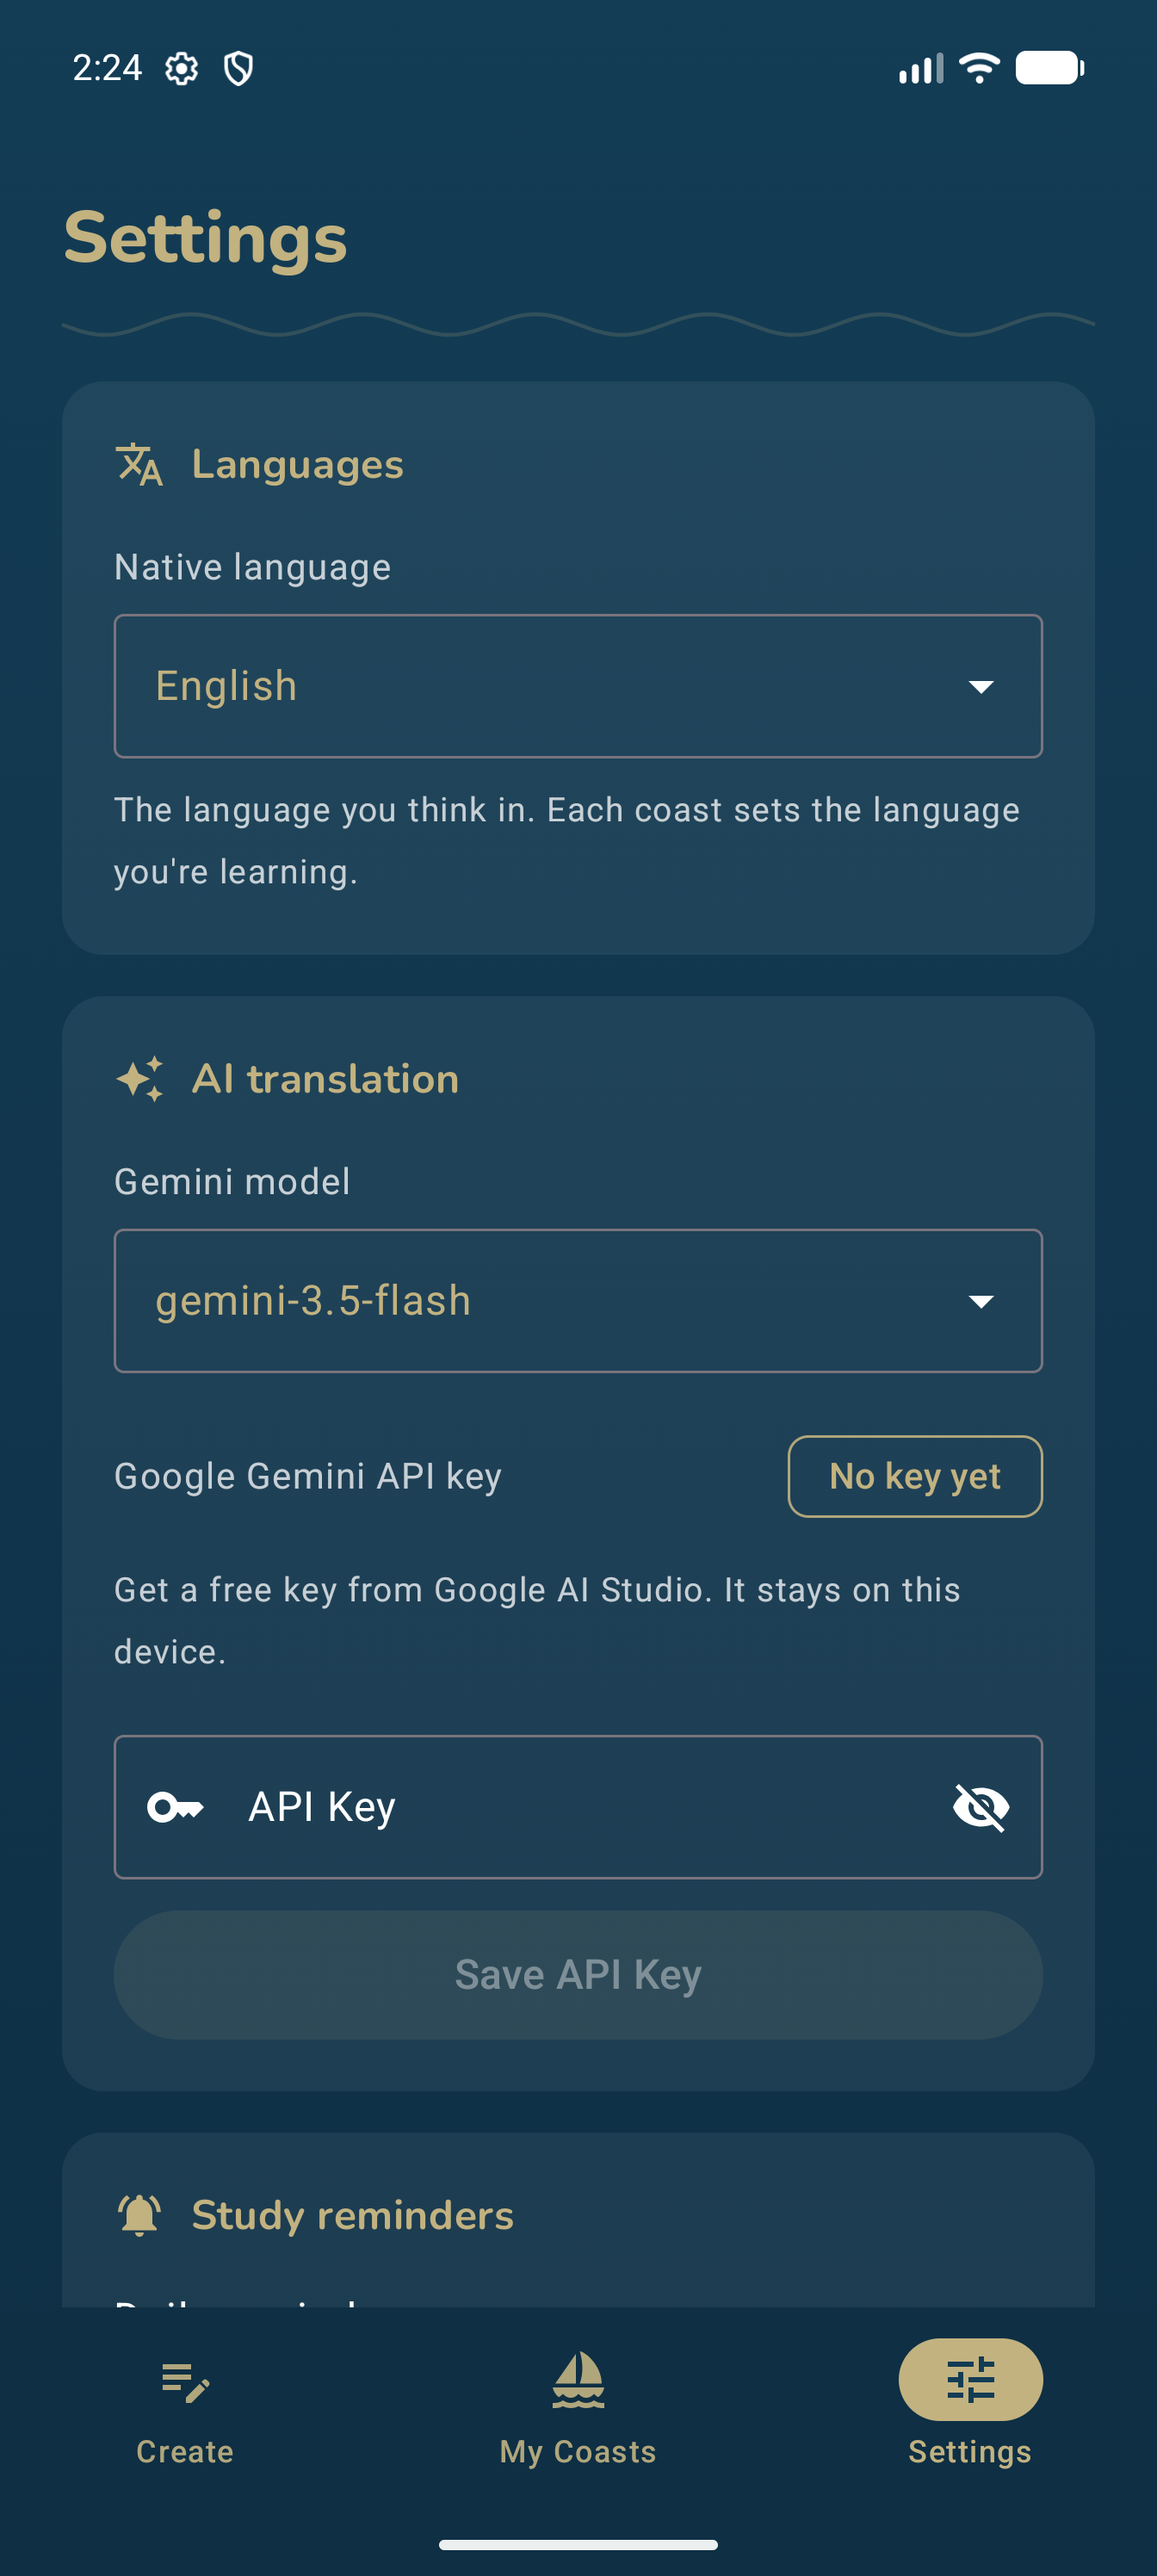
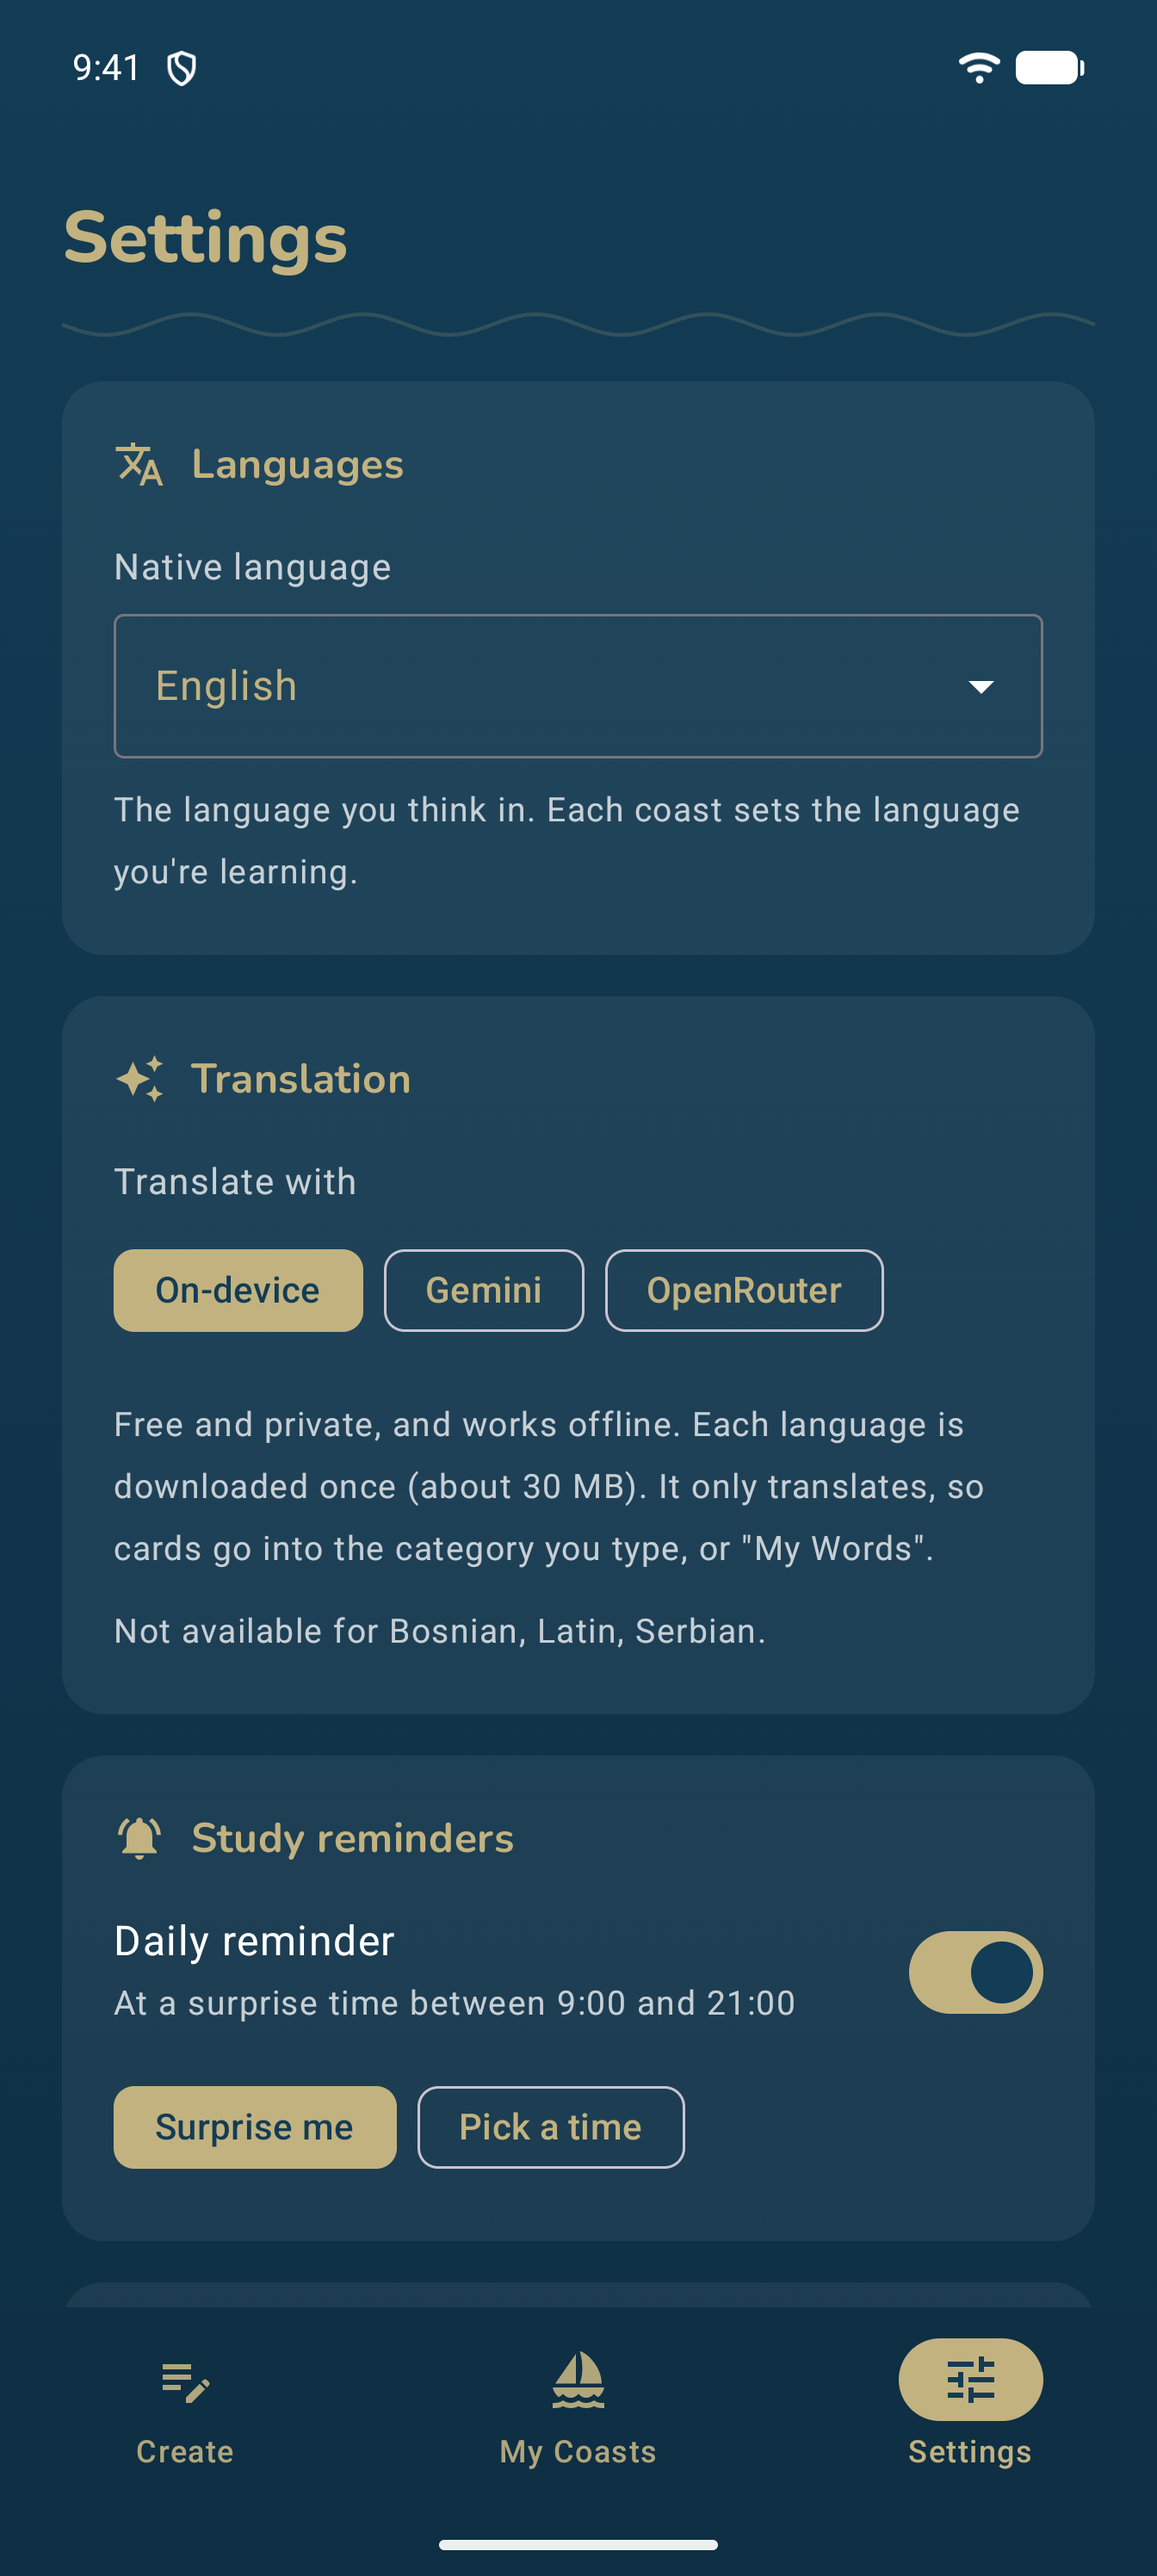
Shrink the release APK and refresh the README screenshots
On-device translation (ML Kit) ships a ~15 MB native library for each CPU
type, which took the v1.1 APK from 20 MB to 84 MB. Release builds now keep
only the two that phones use (arm64-v8a and armeabi-v7a), bringing the APK
to 49 MB; debug builds keep all four so x86 emulators still work.

The screenshots now show the current app: the home screen, due counts on
coasts and islands, the read-aloud button and four grade buttons, the
translation provider choice in Settings and the reminder with the number of
due cards. They were taken with a clean demo-mode status bar.

diff --git a/README.md b/README.md
@@ -23,11 +23,11 @@ Language Coast is a flashcard app that changes how you build vocabulary. It comb
 
 <p align="center">
   <img src="docs/screenshots/create.png" alt="Home screen with today's due cards, the new card form and recently added cards" width="200" />
-  <img src="docs/screenshots/my-coast.png" alt="My Coasts screen with a German and an Icelandic coast" width="200" />
-  <img src="docs/screenshots/coast.png" alt="German Coast with its Language Islands" width="200" />
-  <img src="docs/screenshots/study.png" alt="Flipped flashcard with Again, Hard, Good and Easy buttons showing when the card comes back" width="200" />
-  <img src="docs/screenshots/settings.png" alt="Settings screen" width="200" />
-  <img src="docs/screenshots/notification.png" alt="Daily study reminder notification" width="200" />
+  <img src="docs/screenshots/my-coast.png" alt="My Coasts with the study streak and a German and an Icelandic coast, each showing its due cards" width="200" />
+  <img src="docs/screenshots/coast.png" alt="German Coast with its Language Islands and how many cards on each are due" width="200" />
+  <img src="docs/screenshots/study.png" alt="Flipped flashcard with a read-aloud button and Again, Hard, Good and Easy buttons showing when the card comes back" width="200" />
+  <img src="docs/screenshots/settings.png" alt="Settings with the native language and the choice of on-device, Gemini or OpenRouter translation" width="200" />
+  <img src="docs/screenshots/notification.png" alt="Daily study reminder saying how many cards are due" width="200" />
 </p>
 
 ## ✨ Features
